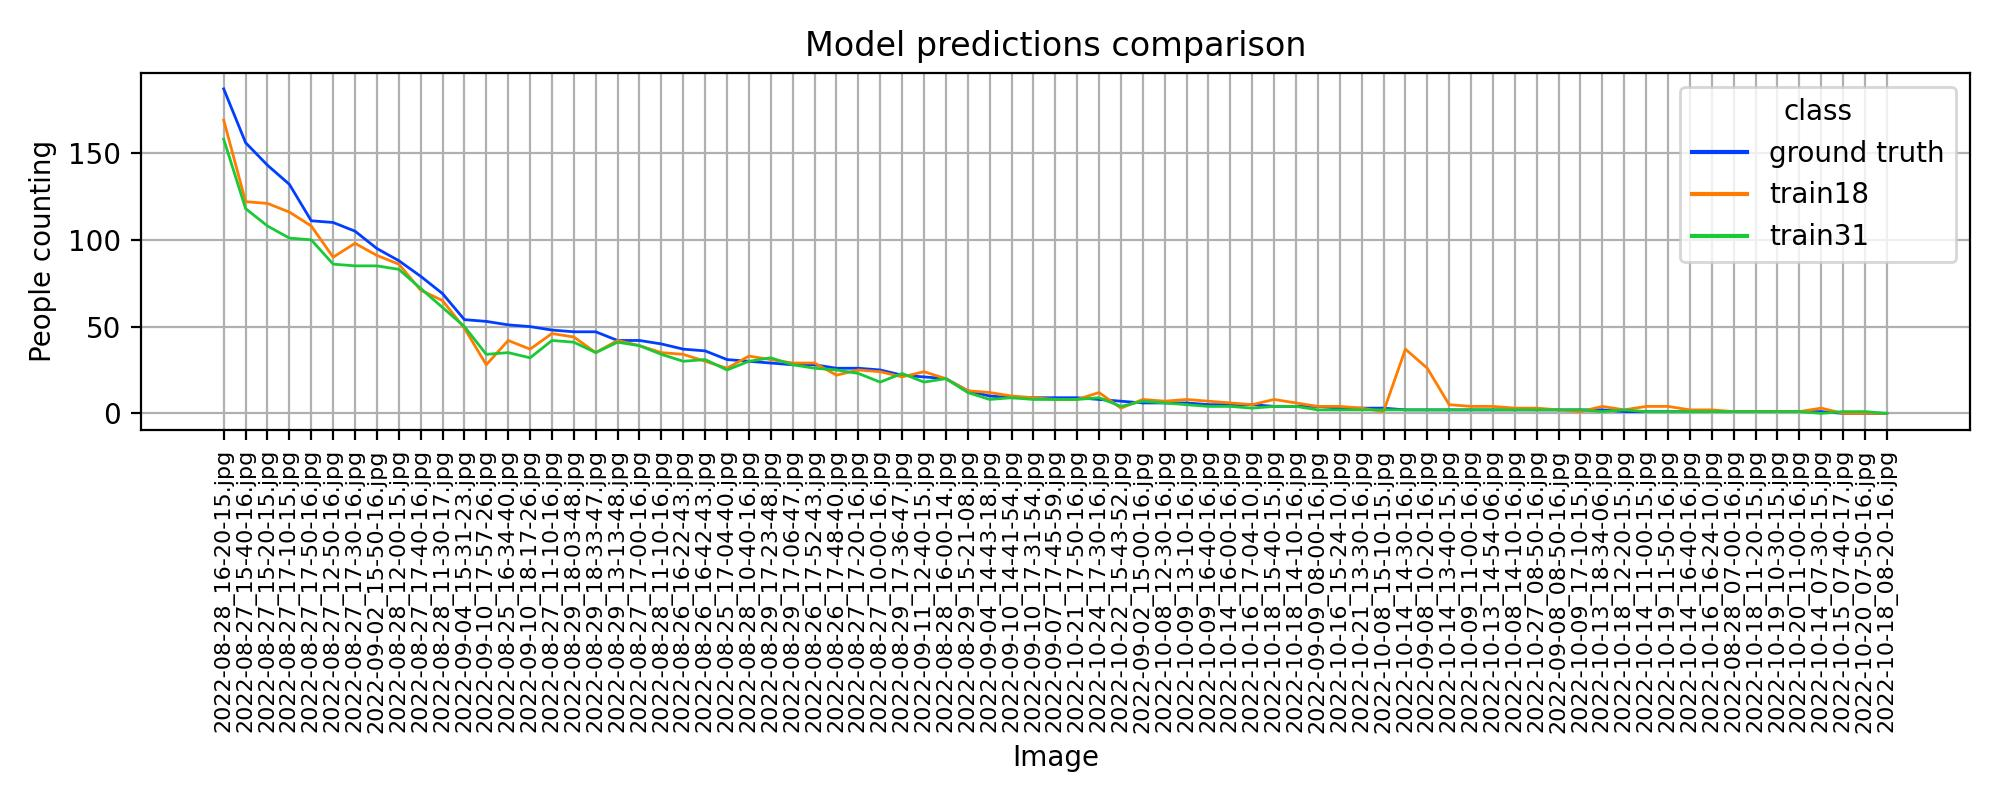
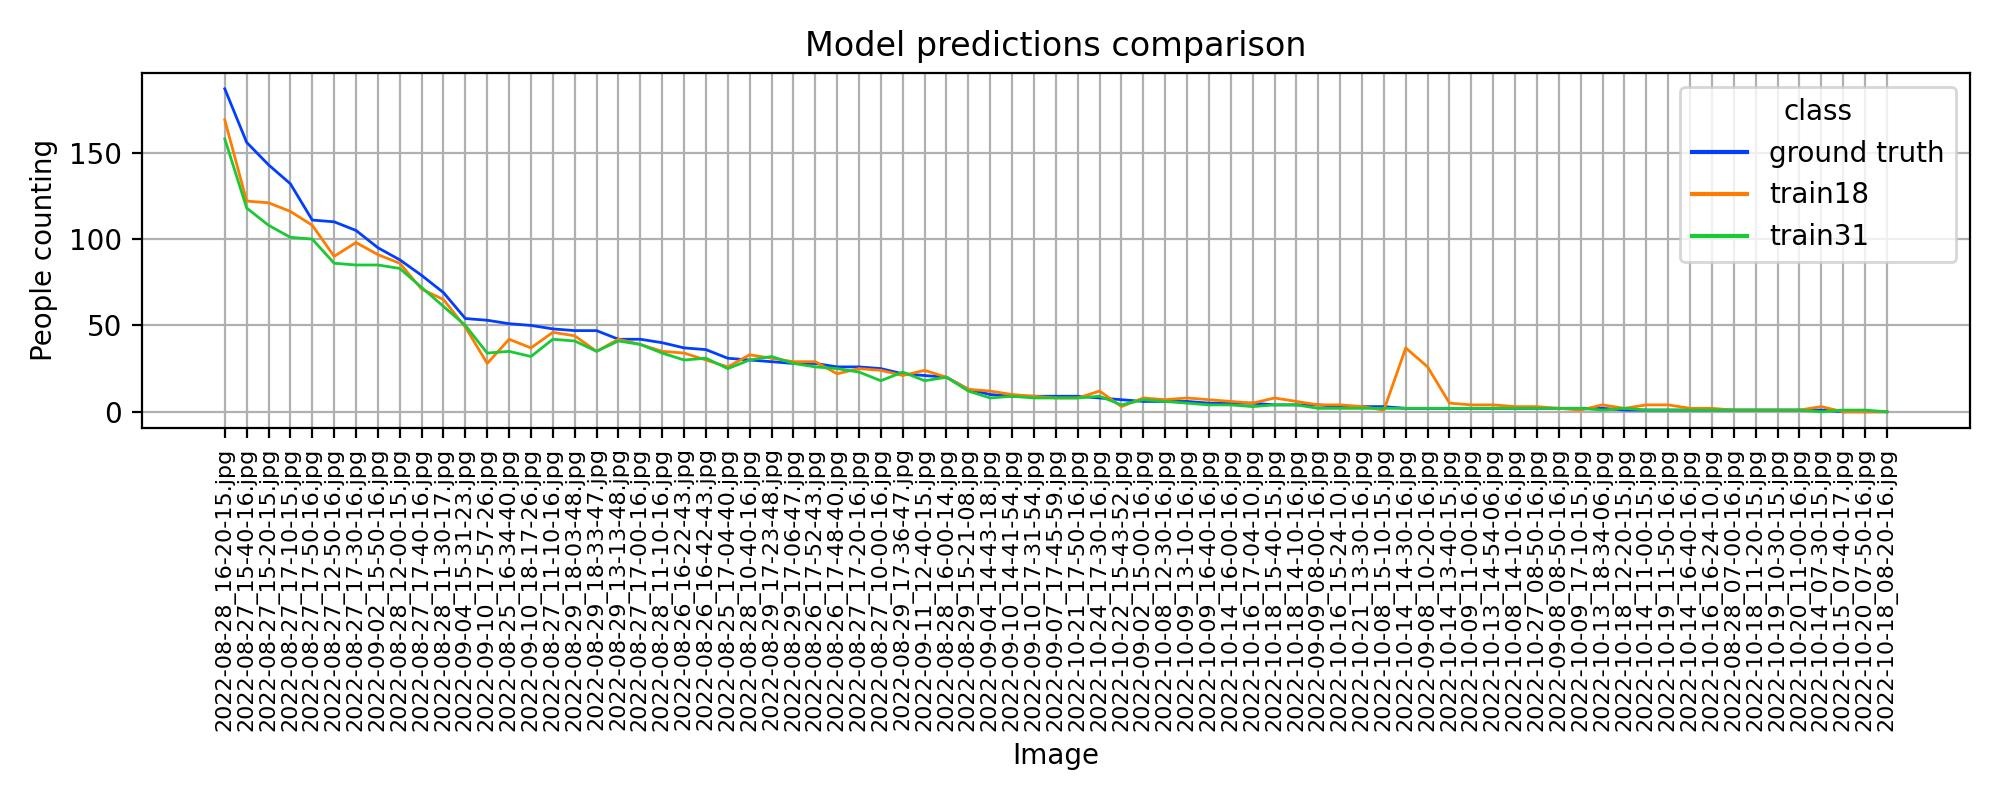
.

diff --git a/update_annotations_incrementally.py b/update_annotations_incrementally.py
@@ -18,7 +18,7 @@ AnnotationYOLOv8(annotations='./models/YOLOv8/BruceBeach426/test/test.json',
 AnnotationYOLOv8(annotations='./models/YOLOv8/BruceBeach426/test/test.json',
                  images='./models/YOLOv8/BruceBeach426/test/images/',
                  model_name='YOLOv8x_BB158_500_t16_b',
-                 model_weights='./models/YOLOv8/weights/YOLOv8x_BB158_500_t16_b.pt').foo()
+                 model_weights='./models/YOLOv8/weights/YOLOv8x_BB158_500_t18_b.pt').foo()
 AnnotationYOLOv8(annotations='./models/YOLOv8/BruceBeach426/test/test.json',
                  images='./models/YOLOv8/BruceBeach426/test/images/',
                  model_name='YOLOv8x_BB426_760_t31_b',

diff --git a/data/img_class_ground_truth/Model predictions comparison.py b/data/img_class_ground_truth/Model predictions comparison.py
@@ -11,6 +11,8 @@ import os
 import plotly
 import kaleido
 import plotly.io as pio
+import sys
+sys.path.append("../..")
 
 from models.utils.Consts import MODEL_LIST
 import matplotlib.dates as mdates
@@ -73,6 +75,7 @@ ax.set_xticklabels(ax.get_xticklabels(), rotation=90, size=8)
 ax.grid()
 plt.tight_layout()
 # plt.show()
-plt.savefig('./data/img_class_ground_truth/Model predictions comparison.jpg')
+# plt.savefig('./data/img_class_ground_truth/Model predictions comparison.jpg')
+plt.savefig('./Model predictions comparison.jpg')
 
 print('')

diff --git a/run_application.py b/run_application.py
@@ -3,5 +3,9 @@ import sys
 from fiftyone.core.dataset import delete_dataset, dataset_exists, list_datasets
 
 dataset = fo.load_dataset('YOLOv8x_BB426_760_t31_b')
-session = fo.launch_app(dataset, port=5152)
+session = fo.launch_app(dataset, 
+        # address="0.0.0.0", 
+        port=5151,
+        remote=True, 
+        )
 session.wait()
